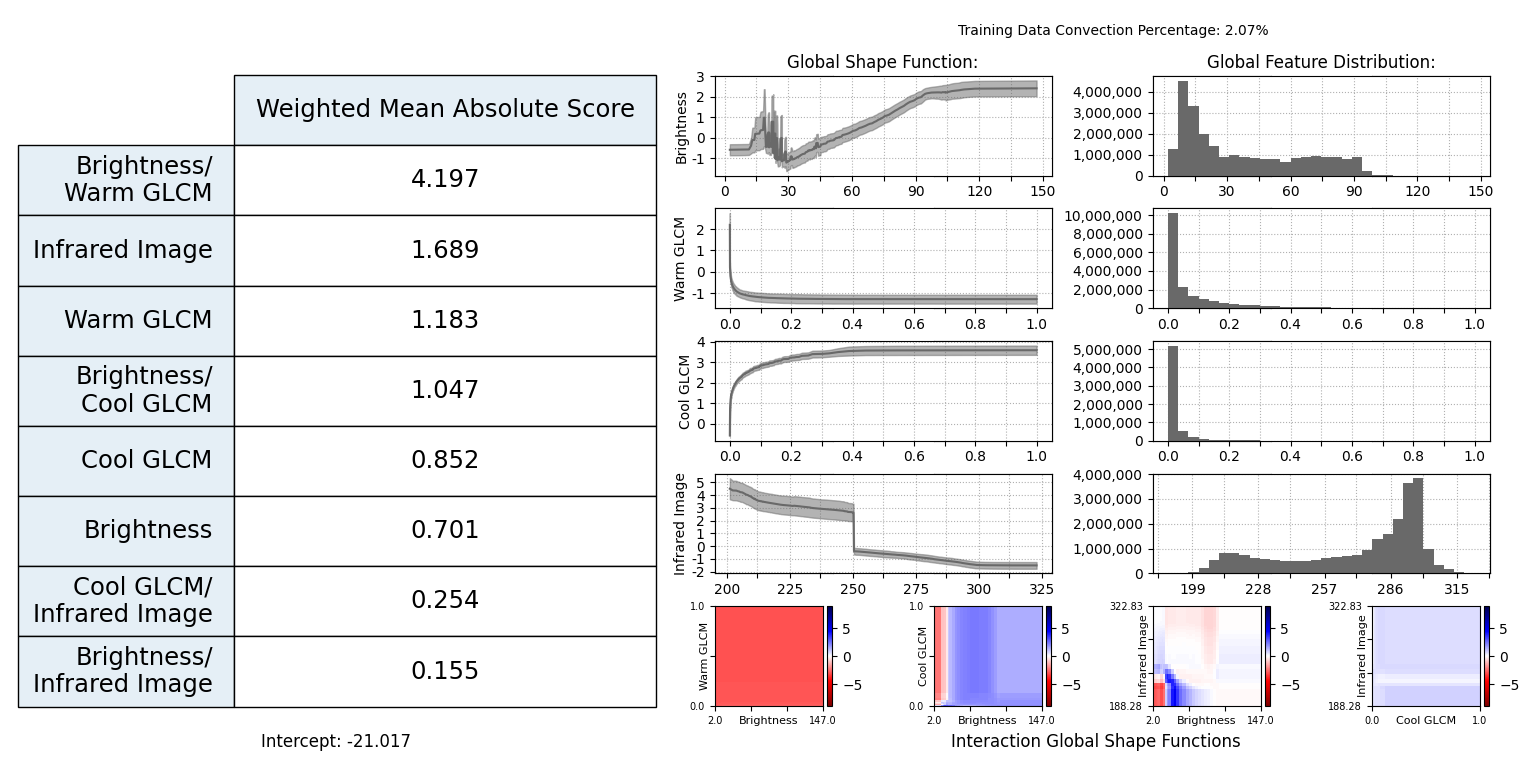
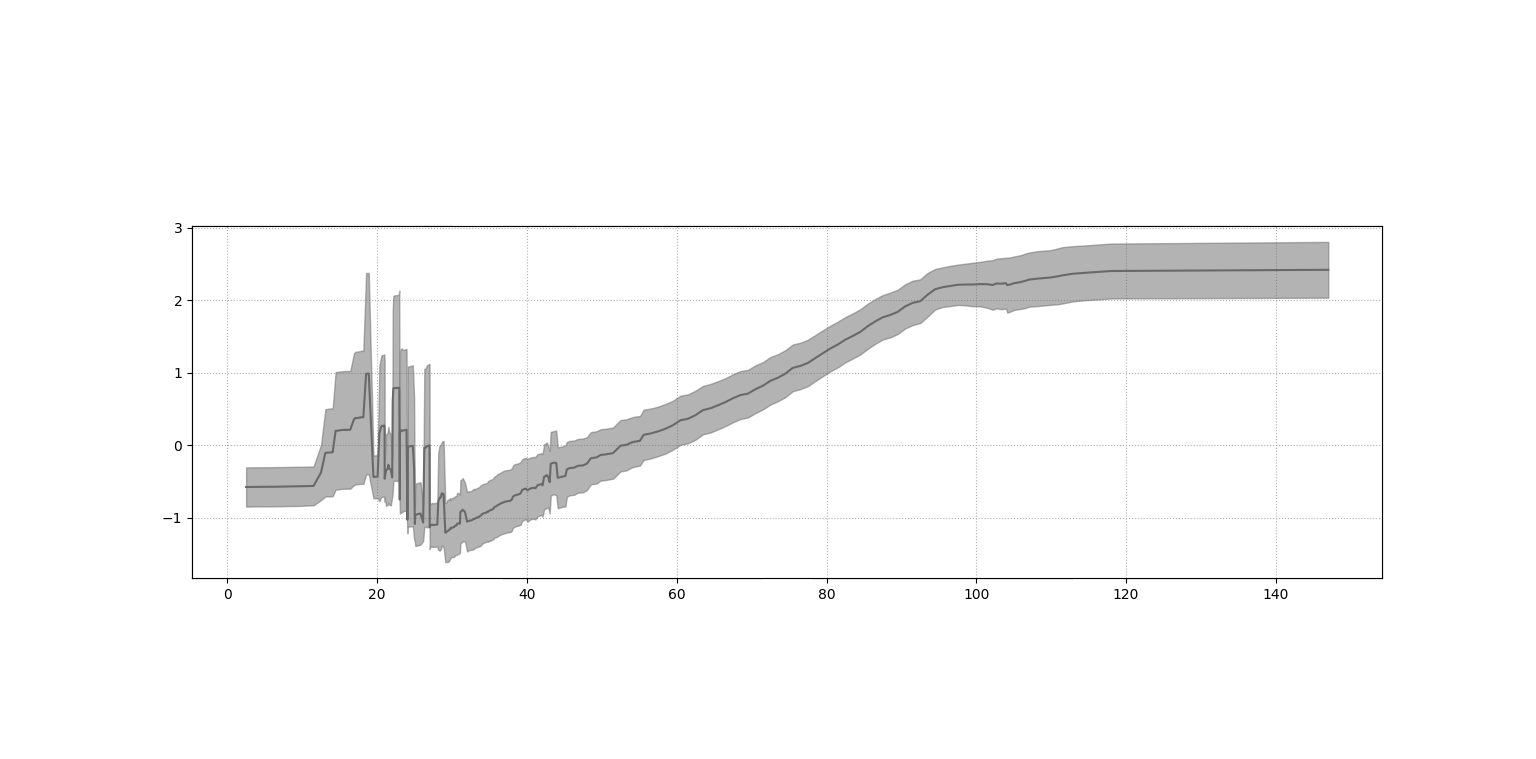
added images

Changed region(s): [[0.0, 0.0606, 1.0, 1.0], [0.625, 0.0303, 0.9375, 0.0909], [0.1562, 0.9697, 0.25, 1.0]]

diff --git a/ebm_plotting.py b/ebm_plotting.py
@@ -34,7 +34,7 @@ warnings.filterwarnings('ignore')
 tile_size = 4
 
 #Load in the data
-validation_data = xr.open_dataset('/home/nmitchell/GLCM/validation_data.nc')
+validation_data = xr.open_dataset('/home/nmitchell/GLCM/testing_data.nc')
 
 #Filepath for the EBM
 filepath = r'/home/nmitchell/GLCM/models/EBM_model_ADASYN'
@@ -90,7 +90,6 @@ def alter_model():
     #For setting the bounds to 0 later on, need the name and which positions to switch
     edited_shape_fxs = np.append(edited_shape_fxs, ["brightness"])
     edit_range = np.hstack((edit_range, np.array([0, np.sum(xvals <= 29)])))
-
 
 #    ebm.explain_global().data(1)['scores'][0] = 0.25
 
@@ -192,7 +191,7 @@ gt_cm  = mpl.colors.LinearSegmentedColormap.from_list(" ", ["white", "red"])
 
 o_cm = mpl.colors.LinearSegmentedColormap.from_list(" ", ["orange", "black"])
 
-#examples = random.randint(6033, size = (5))
+#examples = random.randint(851, size = (5))
 #print(examples)
 
 #Favorite Examples:
@@ -210,7 +209,10 @@ o_cm = mpl.colors.LinearSegmentedColormap.from_list(" ", ["orange", "black"])
 #examples = [1150,731,3337]
 
 #EXAMPLES WITH WORST STRIPING IN THE VALIDATION SET
-examples = [16,23,62,276,307,338,374,405,442,672]
+#examples = [16,23,62,276,307,338,374,405,442,672]
+
+#examples = [1506]
+examples = [205]
 
 #for isamp in range(num1,num2):
 for isamp in examples:
@@ -327,16 +329,63 @@ for isamp in examples:
         plt.colorbar(interaction, ax = ax[1],location = 'right', fraction = 0.046, pad = 0.04)
         plt.show()
 
-#    int_shape(5)
-#    continue
+    int_shape(5)
+    continue
 
-    def og_im():
-        plt.imshow(original_image, cmap = 'gray', origin = 'lower', extent = (0,256,0,256))
-        plt.subplots_adjust(left = 0, bottom = 0.01, right = 1, top = .99, wspace = 0, hspace = 0)
+    def useful_figures(a):
+        name = names[a].lower().replace(' ', '_')
+        fig, ax = plt.subplots(1,4)
+        for i in range(4):
+            ax[i].set_xticks([])
+            ax[i].set_yticks([])
+        gs = ax[0].get_gridspec()
+
+        shape_fx = fig.add_subplot(gs[0:4])
+        shape_fx.grid(True, linestyle = ':')
+        shape_fx.set_axisbelow(True)
+
+        xvals = ebm.explain_global().data(a)['names'][1:len(ebm.explain_global().data(a)['names'])]
+        yvals = ebm.explain_global().data(a)['scores']
+
+        shape_fx.plot(xvals, yvals, color = 'dimgray')
+
+        if name in edited_shape_fxs:
+            position = np.where(edited_shape_fxs == name)[0][0]
+            bound_range = edit_range[position]
+            arr = np.full(int(bound_range[1] - bound_range[0]), np.nan)
+
+            #Where the shape function was edited, fill the upper/lower bounds with NaNs
+            lower_bounds = np.array(ebm.explain_global().data(a)['lower_bounds'])
+            lower_bounds[int(bound_range[0]):int(bound_range[1])] = arr
+
+            upper_bounds = np.array(ebm.explain_global().data(a)['upper_bounds'])
+            upper_bounds[int(bound_range[0]):int(bound_range[1])] = arr
+        else:
+            #If the shape functions weren't edited, the upper/lower bounds stay the same
+            lower_bounds = ebm.explain_global().data(a)['lower_bounds']
+            upper_bounds = ebm.explain_global().data(a)['upper_bounds']
+
+        shape_fx.fill_between(xvals, lower_bounds, upper_bounds, alpha = 0.6, color = 'dimgray')
+#        shape_fx.fill_between(xvals, ebm.explain_global().data(a)['lower_bounds'], ebm.explain_global().data(a)['upper_bounds'], alpha = 0.5, color = 'dimgray')
+
+        plt.subplots_adjust(left = 0.186, bottom = 0.31, right = 0.843, top = .75, wspace = 0.2, hspace = 0.2)
+
         plt.show()
 
-#    og_im()
-#    continue
+    useful_figures(2)
+    continue
+
+    def og_im():
+        #plt.imshow(ones, alpha = warm_glcm, cmap = red_cm, origin = 'lower', extent = (0,256,0,256))
+        plt.imshow(ones, alpha = cool_glcm, cmap = blu_cm, origin = 'lower', extent = (0,256,0,256))
+        plt.subplots_adjust(left = 0, bottom = 0.01, right = 1, top = .99, wspace = 0, hspace = 0)
+        plt.xticks([])
+        plt.yticks([])
+
+        plt.show()
+
+    #og_im()
+    #continue
 
     def slim_plotting():
         fig, ax = plt.subplots(1,3)
